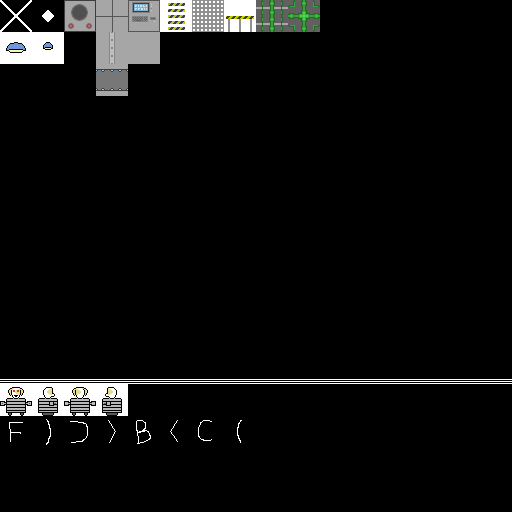
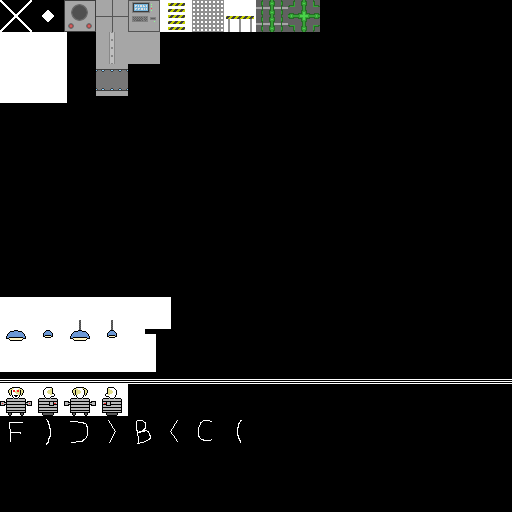
Made placing "player" entity assign the player's initial spawn position
(Try to only place one, of course)

Also minor improvement to map lights

Changed region(s): [[0.0, 0.5625, 0.3438, 0.75], [0.0, 0.0625, 0.1562, 0.2188]]

diff --git a/src/BORK_of_DOOM/state_edit.c b/src/BORK_of_DOOM/state_edit.c
@@ -117,14 +117,14 @@ static void bork_editor_update_map(struct bork_editor_data* d)
             d->cursor[2] = MOD(d->cursor[2] + 1, 32);
         else if(ctrl[SDL_SCANCODE_LSHIFT])
             d->ent_type = MOD((int)d->ent_type + 1, BORK_ENTITY_TYPES);
-        else d->current_tile.type = MOD(d->current_tile.type + 1, BORK_TILE_COUNT);
+        else d->current_tile.type = MOD((int)d->current_tile.type + 1, BORK_TILE_COUNT);
     }
     if(bork_input_event(d->core, SDL_SCANCODE_Y, BORK_CONTROL_HIT)) {
         if(ctrl[SDL_SCANCODE_LCTRL])
             d->cursor[2] = MOD(d->cursor[2] - 1, 32);
         else if(ctrl[SDL_SCANCODE_LSHIFT])
             d->ent_type = MOD((int)d->ent_type - 1, BORK_ENTITY_TYPES);
-        else d->current_tile.type = MOD(d->current_tile.type - 1, BORK_TILE_COUNT);
+        else d->current_tile.type = MOD((int)d->current_tile.type - 1, BORK_TILE_COUNT);
     }
     if(bork_input_event(d->core, SDL_SCANCODE_R, BORK_CONTROL_HIT)) {
         if(ctrl[SDL_SCANCODE_LCTRL]) bork_editor_write_map(&d->map, "test.bork_map");
@@ -312,7 +312,7 @@ static void bork_editor_draw(struct pg_game_state* state)
 
 static void bork_editor_write_map(struct bork_editor_map* map, char* filename)
 {
-    FILE* file = fopen(filename, "w");
+    FILE* file = fopen(filename, "wb");
     if(!file) {
         printf("BORK map writing error: could not open file %s\n", filename);
     }
@@ -325,7 +325,7 @@ static void bork_editor_write_map(struct bork_editor_map* map, char* filename)
 
 int bork_editor_load_map(struct bork_editor_map* map, char* filename)
 {
-    FILE* file = fopen(filename, "r");
+    FILE* file = fopen(filename, "rb");
     if(!file) {
         printf("BORK map loading error: could not open file %s\n", filename);
         return 0;
@@ -352,13 +352,13 @@ void bork_editor_complete_entity(struct bork_entity* ent,
     *ent = (struct bork_entity) {
         .pos = { (32 - ed->pos[0]) * 2, ed->pos[1] * 2, ed->pos[2] * 2 },
         .flags = BORK_ENT_PROFILES[ed->type].base_flags,
+        .item_quantity = 1,
         .type = ed->type,
     };
 }
 
 void bork_editor_complete_map(struct bork_map* map, struct bork_editor_map* ed_map)
 {
-    bork_map_init(map);
     int i, j, k;
     for(i = 0; i < 32; ++i) {
         for(j = 0; j < 32; ++j) {
@@ -377,13 +377,17 @@ void bork_editor_complete_map(struct bork_map* map, struct bork_editor_map* ed_m
                 } else if(tile->type == BORK_TILE_EDITOR_LIGHT1) {
                     struct bork_light new_light = {
                         .pos = { i * 2 + 1, j * 2 + 1, k * 2 + 1.75, 7 },
-                        .dir_angle = { 0, 0, -1, 1.75 },
+                        .dir_angle = { 0, 0, -1, 1.7 },
                         .color = { 1.5, 1.5, 1.2 } };
-                    if(ed_tile->dir & (1 << 7)) new_light.pos[2] += 2;
+                    int push = 0;
+                    if(ed_tile->dir & (1 << 7)) {
+                        push = 1;
+                        new_light.pos[2] += 1.3;
+                    }
                     ARR_PUSH(map->spotlights, new_light);
                     struct bork_map_light_fixture new_lfix = {
                         .pos = { new_light.pos[0], new_light.pos[1], new_light.pos[2] - 0.2 },
-                        .type = 0,
+                        .type = 0 + (push ? 2 : 0),
                     };
                     ARR_PUSH(map->light_fixtures, new_lfix);
                     tile->type = BORK_TILE_ATMO;
@@ -392,30 +396,32 @@ void bork_editor_complete_map(struct bork_map* map, struct bork_editor_map* ed_m
                         .pos = { i * 2 + 1, j * 2 + 1, k * 2 + 1.8, 5 },
                         .dir_angle = { 0, 0, -1, 1.15 },
                         .color = { 1.5, 1.5, 1.2 } };
-                    switch(tile->orientation) {
-                    default: case (1 << PG_FRONT):
+                    if(ed_tile->dir & (1 << PG_FRONT)) {
                         new_light.dir_angle[1] = 1;
                         new_light.pos[1] -= 0.8;
-                        break;
-                    case (1 << PG_BACK):
+                    }
+                    if(ed_tile->dir & (1 << PG_BACK)) {
                         new_light.dir_angle[1] = -1;
                         new_light.pos[1] += 0.8;
-                        break;
-                    case (1 << PG_LEFT):
+                    }
+                    if(ed_tile->dir & (1 << PG_LEFT)) {
                         new_light.dir_angle[0] = 1;
                         new_light.pos[0] -= 0.8;
-                        break;
-                    case (1 << PG_RIGHT):
+                    }
+                    if(ed_tile->dir & (1 << PG_RIGHT)) {
                         new_light.dir_angle[0] = -1;
                         new_light.pos[0] += 0.8;
-                        break;
                     }
-                    if(ed_tile->dir & (1 << 7)) new_light.pos[2] += 2;
+                    int push = 0;
+                    if(ed_tile->dir & (1 << 7)) {
+                        push = 1;
+                        new_light.pos[2] += 1.3;
+                    }
                     vec3_normalize(new_light.dir_angle, new_light.dir_angle);
                     ARR_PUSH(map->spotlights, new_light);
                     struct bork_map_light_fixture new_lfix = {
                         .pos = { new_light.pos[0], new_light.pos[1], new_light.pos[2] - 0.1 },
-                        .type = 1,
+                        .type = 1 + (push ? 2 : 0),
                     };
                     ARR_PUSH(map->light_fixtures, new_lfix);
                     tile->type = BORK_TILE_ATMO;
@@ -426,6 +432,12 @@ void bork_editor_complete_map(struct bork_map* map, struct bork_editor_map* ed_m
     bork_entity_t ent_arr = bork_entity_new(ed_map->ents.len);
     struct bork_editor_entity* ed_ent;
     ARR_FOREACH_PTR(ed_map->ents, ed_ent, i) {
+        if(ed_ent->type == BORK_ENTITY_PLAYER) {
+            if(!map->plr) continue;
+            vec3_set(map->plr->pos,
+                (32 - ed_ent->pos[0]) * 2, ed_ent->pos[1] * 2, ed_ent->pos[2] * 2);
+            continue;
+        }
         bork_entity_t ent_id = ent_arr + i;
         struct bork_entity* ent = bork_entity_get(ent_id);
         bork_editor_complete_entity(ent, ed_ent);

diff --git a/src/BORK_of_DOOM/map_area.c b/src/BORK_of_DOOM/map_area.c
@@ -197,7 +197,7 @@ void bork_map_draw(struct bork_map* map, struct bork_game_core* core)
     ARR_FOREACH_PTR(map->light_fixtures, lfix, i) {
         mat4_translate(model_transform, lfix->pos[0], lfix->pos[1], lfix->pos[2]);
         if(lfix->type != current_type) {
-            pg_shader_sprite_tex_frame(shader, lfix->type + 16);
+            pg_shader_sprite_tex_frame(shader, lfix->type + 160);
             current_type = lfix->type;
         }
         pg_model_draw(&core->enemy_model, model_transform);
